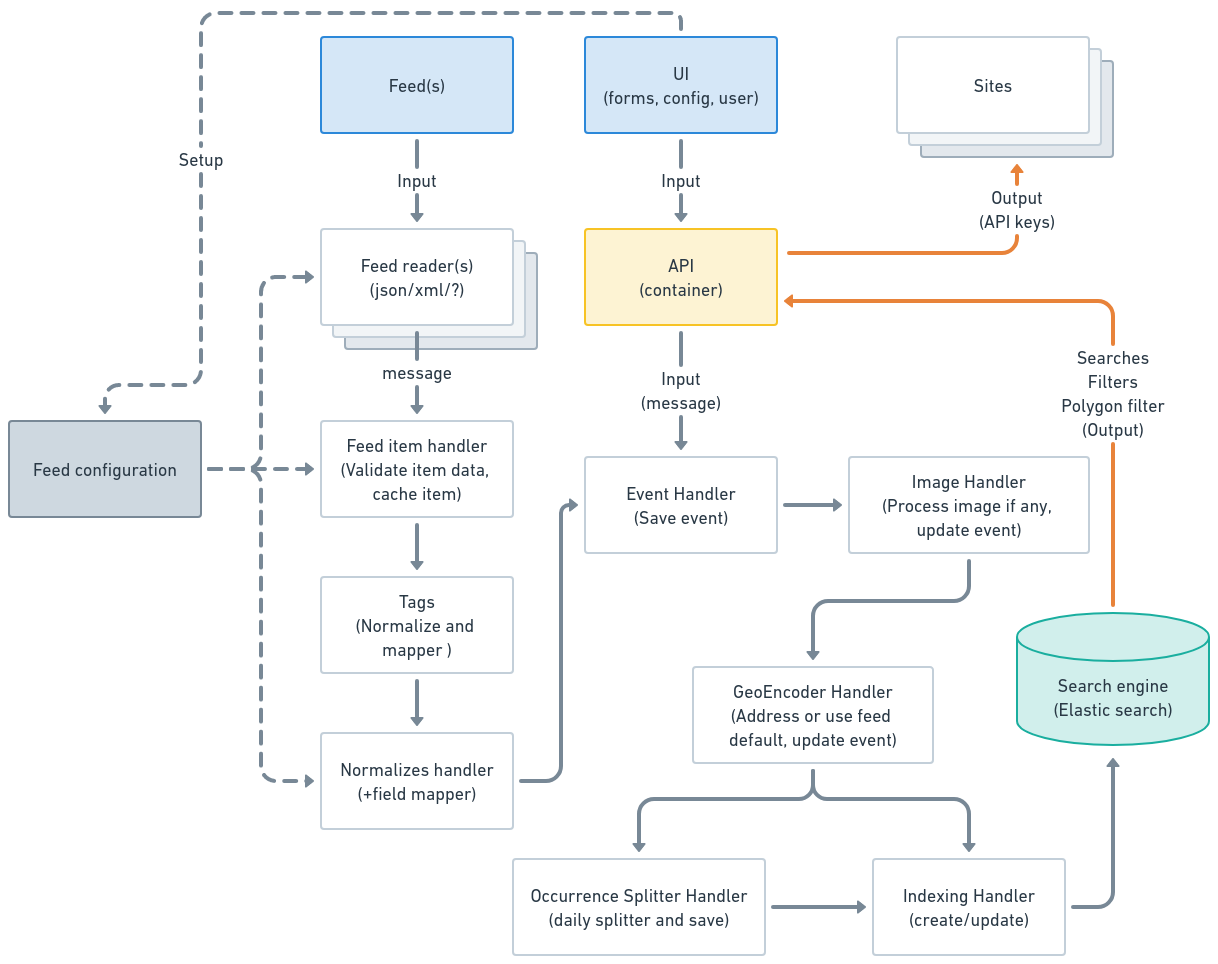
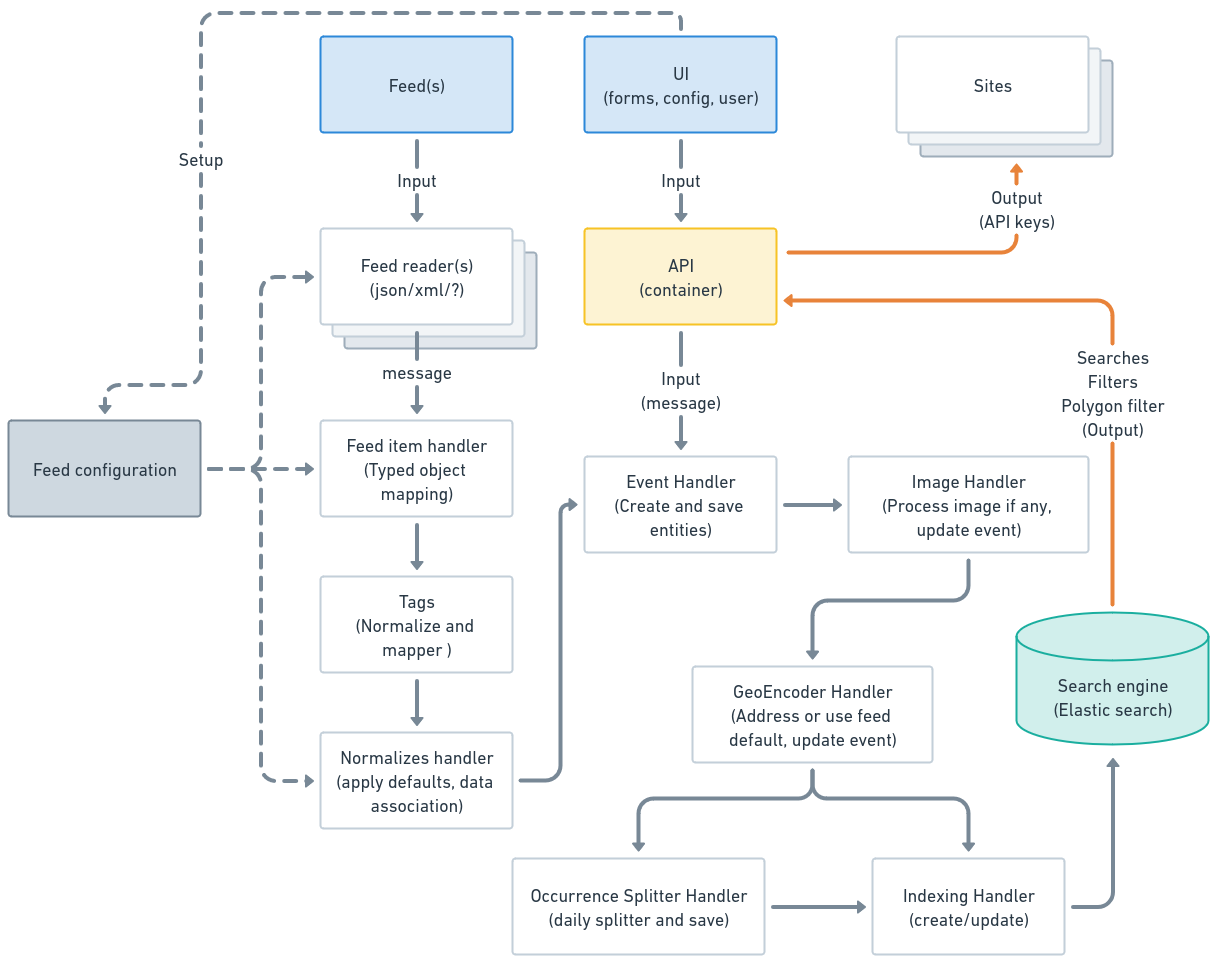
EV-261: Updated data fow diagram

diff --git a/src/Services/Feeds/Mapper/Source/FeedNormalizedSource.php b/src/Services/Feeds/Mapper/Source/FeedNormalizedSource.php
@@ -4,6 +4,12 @@ namespace App\Services\Feeds\Mapper\Source;
 
 use Symfony\Component\PropertyAccess\PropertyAccess;
 
+/**
+ * Normalizer that is executed before mapping feed data to object.
+ *
+ * It handles the "." dot notation in mappings to enabled mapping of dimensional data (array indexes) to object values.
+ * It handles the ".*." wildcard notation to map arrays into arrays with different keys.
+ */
 final class FeedNormalizedSource implements \IteratorAggregate
 {
     private const SRC_WILDCARD = '*';
